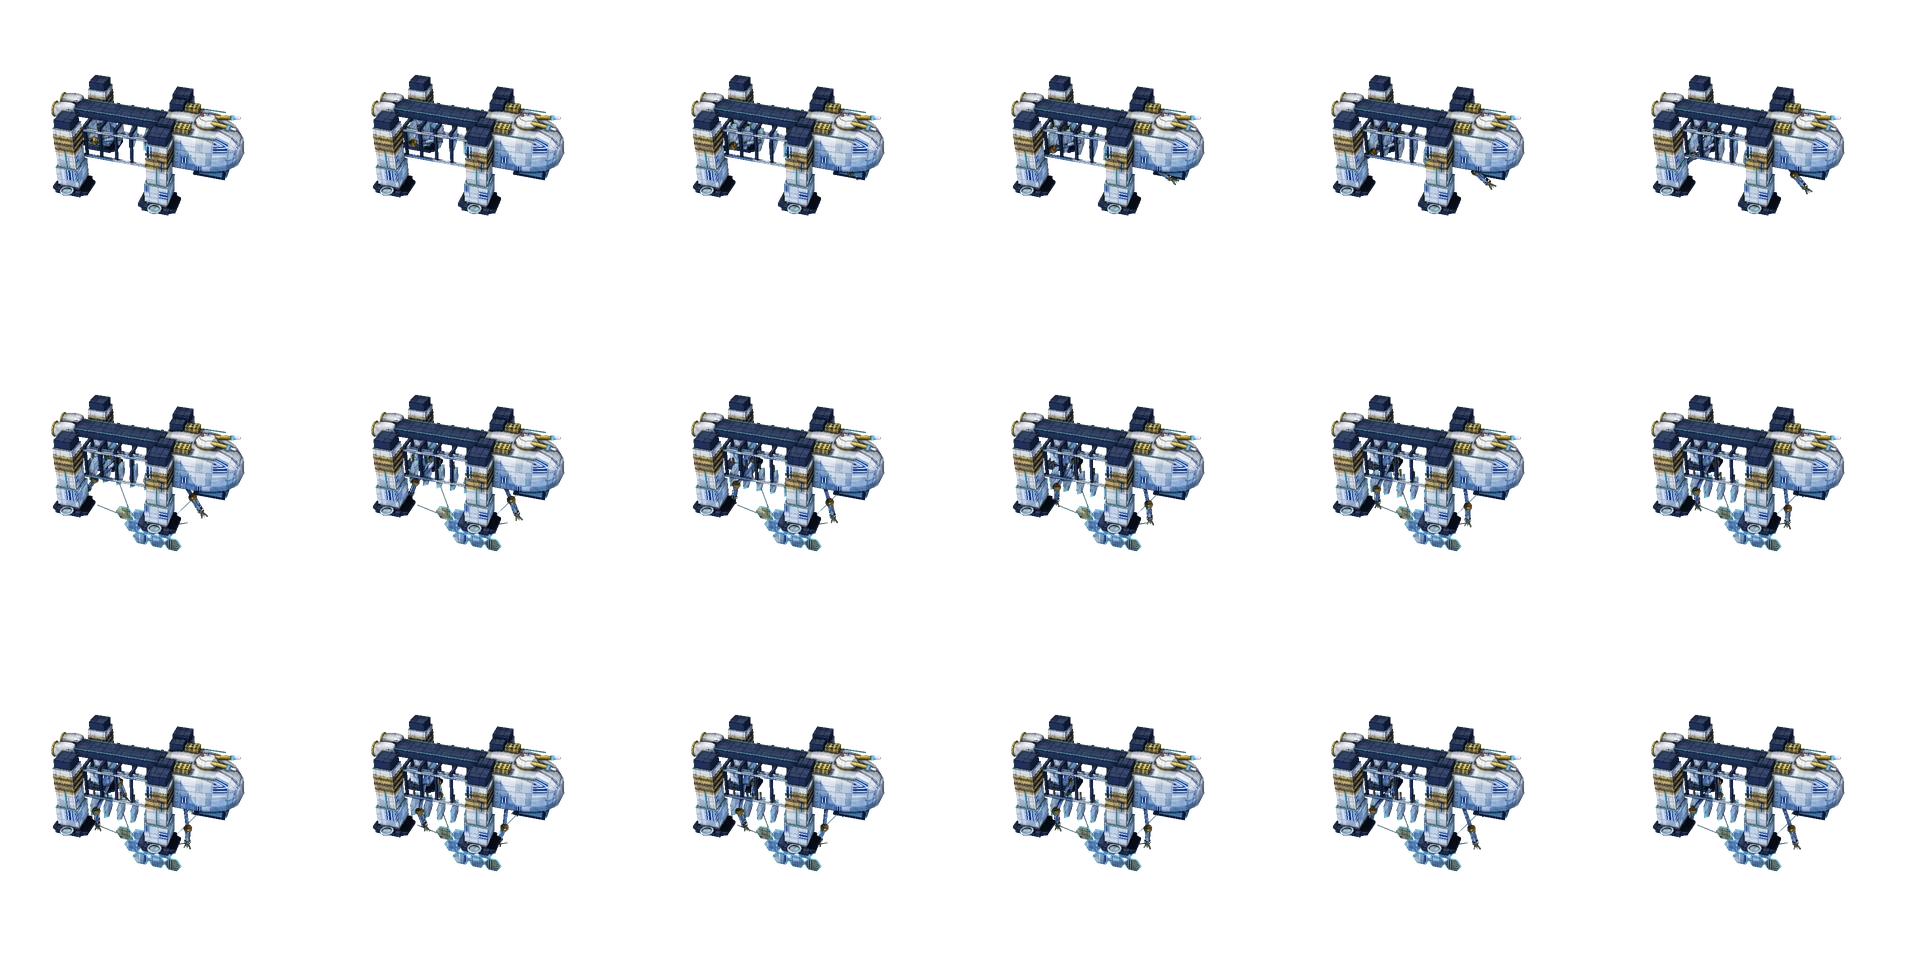
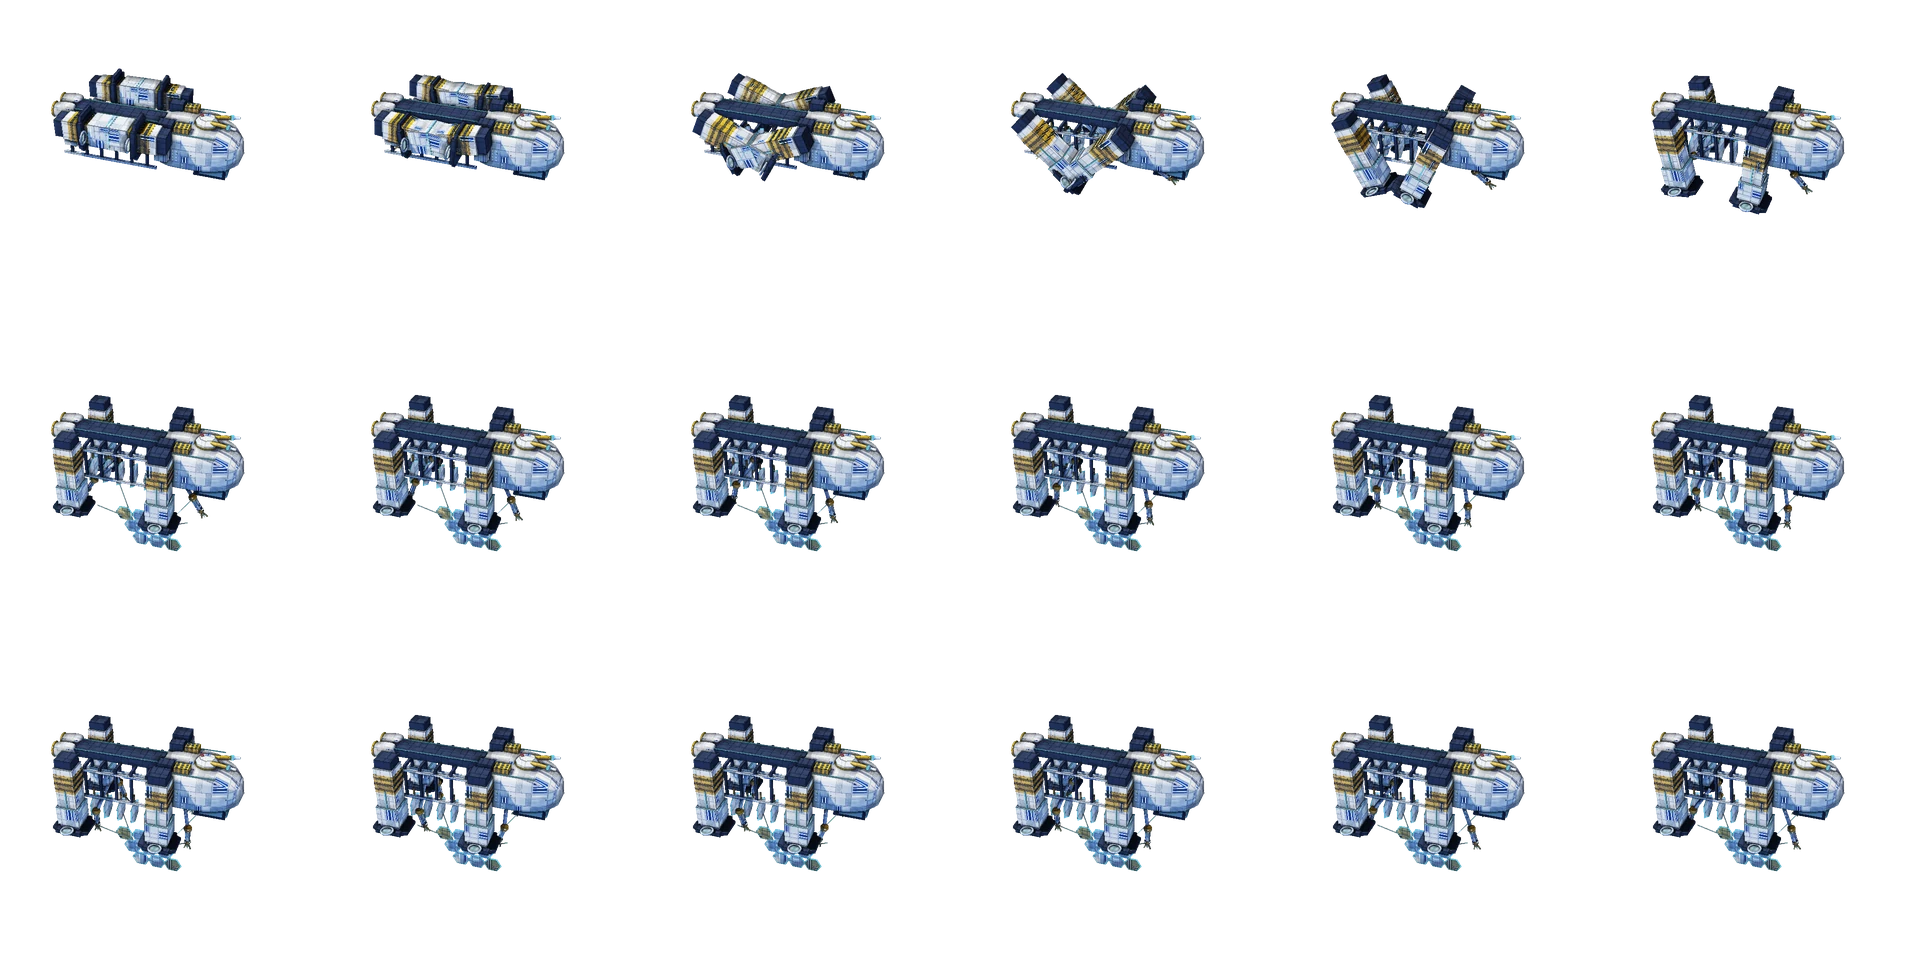
다이달로스: 기둥 다리 4개가 비행 중엔 앞뒤로 눕고 수리 자리에서 아래로 세워짐
Claude-Session: https://claude.ai/code/session_01GnYwrAznTnewLvEm25T8q8

diff --git a/ag/fleet.html b/ag/fleet.html
@@ -280,13 +280,7 @@ box(11.4,.9,2.6,BK,TR(-5.2,2.9,0));box(11.4,.1,.1,NE,TR(-5.2,3.4,1.2),1);box(11.
 for(const z of [-1,1]){box(11.4,.3,.3,WH2,TR(-5.2,1.9,z*2.9));box(11.4,.3,.3,WH2,TR(-5.2,-1.6,z*2.9))}
 for(let q=0;q<6;q++)for(const z of [-1,1]){box(.3,4.2,.3,BK,TR(-.6-q*1.85,.4,z*2.9));box(.3,.3,1.6,BK,TR(-.6-q*1.85,2.4,z*2.0))}
 for(const z of [-1.1,1.1]){loft([[-12.4,.8,.8,0],[-11.4,.95,.95,0],[-10.2,.85,.85,0],[-9.6,0,0,0]],14,half(14),TR(0,2.9,z));torus(.82,.14,20,6,GD,cmp(back,TR(-12.42,2.9,z)));disc(.7,NE2,cmp(back,TR(-12.46,2.9,z)))}
-/* 기둥 다리 4개 */
-for(const x of [1.4,-9.2])for(const z of [-1,1]){const T=TR(x,0,z*4.7);
- box(2.3,8.0,2.3,WH,cmp(TR(0,-.6,0),T));box(2.0,1.0,2.0,BK,cmp(TR(0,3.9,0),T));box(2.36,2.3,2.36,GD,cmp(TR(0,1.5,0),T));for(let q=0;q<3;q++)box(2.4,.3,2.4,BK,cmp(TR(0,.8+q*.7,0),T));
- box(2.7,2.4,2.7,WH2,cmp(TR(0,-2.9,0),T));box(2.74,.12,2.74,NE,cmp(TR(0,-1.75,0),T),1);box(.14,2.6,.14,NE,cmp(TR(0,-.6,z*1.2),T),1);
- box(3.1,.5,3.6,BK,cmp(TR(0,-4.85,0),T));prism([[2.2,-1.2],[2.2,1.2],[1.4,1.6],[1.4,-1.6]],-5.1,-4.75,BK,T);prism([[-2.2,-1.2],[-2.2,1.2],[-1.4,1.6],[-1.4,-1.6]],-5.1,-4.75,BK,T);
- box(1.5,1.5,1.9,WH2,TR(x,1.2,z*3.4));box(.3,.3,.3,[1,.35,.4],cmp(TR(1.2,-2.2,z*.4),T),2);
- torus(.7,.13,18,6,GR,cmp(TR(0,-4.4,z*1.9),T));lathe([[0,-.1],[.6,-.1]],16,()=>NE2,cmp(TR(0,-4.4,z*1.9),T),()=>1)}
+for(const x of [1.4,-9.2])for(const z of [-1,1])box(1.5,1.5,1.9,WH2,TR(x,1.2,z*3.4));
 mark(1);
 for(let q=0;q<5;q++){lathe([[0,.14],[1.5,.14],[1.66,.07],[1.5,0],[0,0]],6,(i)=>i===1?NE:(q%2?WH2:WH),cmp(RZ(-PI/2),TR(-1.6-q*1.75,.2,0)),(i)=>i===1?1:0,true);box(.2,.9,.2,GD,TR(-1.53-q*1.75,2.2,0))}
 {let ag=2;for(const sx of [1,-1])for(const sz of [1,-1]){mark(ag++);const M=TR(sx>0?3.4:-6.0,.3,sz*1.9);
@@ -301,6 +295,13 @@ mark(6);
  for(const [y,x,c] of [[-10.6,0,WH],[-10.6,2.15,WH2],[-10.6,-2.15,WH2],[-12.45,1.08,WH],[-12.45,-1.08,WH],[-8.75,1.08,WH2],[-8.75,-1.08,WH],[-12.45,3.23,GD2],[-8.75,-3.23,GD2]])hx(y,x,c);
  for(const [x,z] of [[4.3,3.2],[4.3,-3.2],[-6.9,3.2],[-6.9,-3.2]]){const d=[-1.5+(x>0?2.2:-2.2)-x,-9.6-(-5.6),-z],L=Math.hypot(...d);
   box(.09,L,.09,NE2,cmp(TR(0,L/2,0),RX(Math.atan2(d[2],Math.hypot(d[0],d[1]))),RZ(-Math.atan2(d[0],d[1])),TR(x,-5.6,z)),1)}}
+/* 기둥 다리 4개 (11-20: 따로 움직이는 부품 7~10 — 날 때는 앞다리는 앞으로·뒷다리는 뒤로 눕히고, 수리 자리에서 아래로 세움) */
+{let lg=7;for(const x of [1.4,-9.2])for(const z of [-1,1]){mark(lg++);const T=TR(x,0,z*4.7);
+ box(2.3,8.0,2.3,WH,cmp(TR(0,-.6,0),T));box(2.0,1.0,2.0,BK,cmp(TR(0,3.9,0),T));box(2.36,2.3,2.36,GD,cmp(TR(0,1.5,0),T));for(let q=0;q<3;q++)box(2.4,.3,2.4,BK,cmp(TR(0,.8+q*.7,0),T));
+ box(2.7,2.4,2.7,WH2,cmp(TR(0,-2.9,0),T));box(2.74,.12,2.74,NE,cmp(TR(0,-1.75,0),T),1);box(.14,2.6,.14,NE,cmp(TR(0,-.6,z*1.2),T),1);
+ box(3.1,.5,3.6,BK,cmp(TR(0,-4.85,0),T));prism([[2.2,-1.2],[2.2,1.2],[1.4,1.6],[1.4,-1.6]],-5.1,-4.75,BK,T);prism([[-2.2,-1.2],[-2.2,1.2],[-1.4,1.6],[-1.4,-1.6]],-5.1,-4.75,BK,T);
+ box(.3,.3,.3,[1,.35,.4],cmp(TR(1.2,-2.2,z*.4),T),2);
+ torus(.7,.13,18,6,GR,cmp(TR(0,-4.4,z*1.9),T));lathe([[0,-.1],[.6,-.1]],16,()=>NE2,cmp(TR(0,-4.4,z*1.9),T),()=>1)}}
 endM('게이트수리함',1.05,2.6,2.3,{label:'🔧 수리 전개',label2:'🔧 수리 종료',toggle:1});
 /* ---------- 7. 미사일 포탑 v2 「꽃부채」 (시즌5 수원, 패드 8곳) : g1 = 도는 머리(Y축, 중심 0) — 곡선·꽃잎·진주, 우아하게 ---------- */
 begin();
@@ -523,7 +524,7 @@ function offs(m,g){const k=MI.k;if(g===0)return[0,0,0];
   if(g>=11){const q=TP[g-11],kk=sm(k/.4);return[0,(-1.75-q[1])*kk,0,kk*PI/2,1,q[0],q[1],q[2]]}
   if(g===4||g===5)return[0,0,(g===4?1:-1)*1.75*sm((k-.28)/.2)];if(g===2)return[0,rise,0,k>.97?ga:0];if(g===6)return[6.6*sm((k-.7)/.3),rise,0,k>.97?ga:0];return[0,0,0]}
  if(m.name==='미사일포탑'){const ga=window.__ga!==undefined?window.__ga:(k>.5?performance.now()/1000*.9:0);return g===1?[0,0,0,ga,0,0,0,0]:[0,0,0]}
- if(m.name==='게이트수리함'){if(g===1)return[0,-5.2*k,0];if(g>=2&&g<=5){const sx=g<4?1:-1,sz=g%2?-1:1,e=k*k*(3-2*k),dw=window.__dw;/* 11-20: 수리 팔이 접혀 있다가(앞뒤로 눕힘) 내려오며 세워지고, 수리 중엔 번갈아 흔들림(__dw) */return[sx*.9*k,-2.3*k,sz*1.3*k,sx*1.25*(1-e)+(dw!==undefined?Math.sin(dw+g*1.57)*.32:0),1,sx>0?3.4:-6.0,.3,sz*1.9]}return k>.5?[0,0,0]:null}
+ if(m.name==='게이트수리함'){if(g>=7&&g<=10){const fr=g<9,sz=g%2?1:-1,e=Math.min(1,k/.55),s2=e*e*(3-2*e);return[0,0,0,(fr?-1:1)*(PI/2)*(1-s2),1,fr?1.4:-9.2,3.4,sz*4.7]}if(g===1)return[0,-5.2*k,0];if(g>=2&&g<=5){const sx=g<4?1:-1,sz=g%2?-1:1,e=k*k*(3-2*k),dw=window.__dw;/* 11-20: 수리 팔이 접혀 있다가(앞뒤로 눕힘) 내려오며 세워지고, 수리 중엔 번갈아 흔들림(__dw) */return[sx*.9*k,-2.3*k,sz*1.3*k,sx*1.25*(1-e)+(dw!==undefined?Math.sin(dw+g*1.57)*.32:0),1,sx>0?3.4:-6.0,.3,sz*1.9]}return k>.5?[0,0,0]:null}
  return k>.5?[0,0,0]:null}
 const LD=nrm([-.55,.65,.55]),LX=nrm(crs([0,1,0],LD)),LY=crs(LD,LX);
 function scene(mode,t,F,vw_,vh_){gl.bindFramebuffer(gl.FRAMEBUFFER,F?F.fb:null);gl.viewport(0,0,vw_||w,vh_||h);gl.clearColor(0,0,0,0);gl.clear(gl.COLOR_BUFFER_BIT|gl.DEPTH_BUFFER_BIT);gl.enable(gl.DEPTH_TEST);
